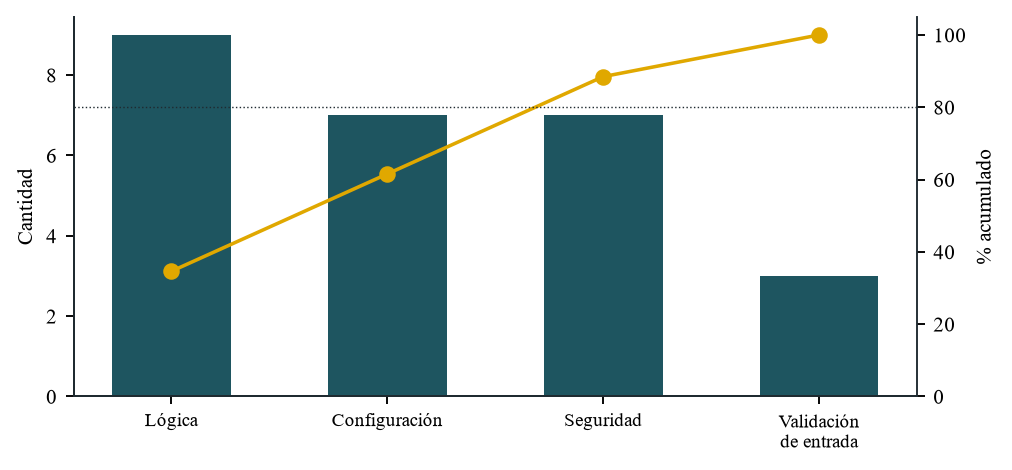
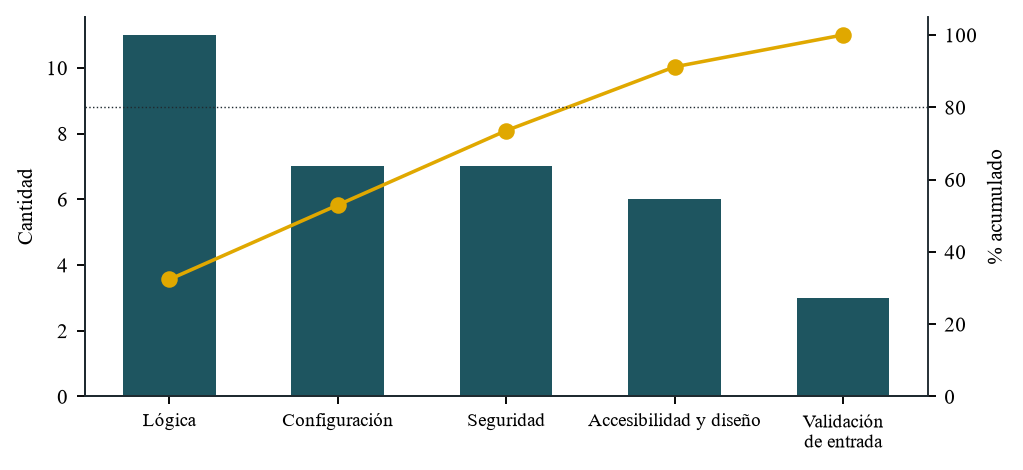
docs: register DEF-027 to DEF-034 from the mobile design audit and regenerate the quality docs

diff --git a/qa/datos_calidad.py b/qa/datos_calidad.py
@@ -163,6 +163,30 @@ DEFECTOS = [
     ('DEF-026', '02-nov-2026', 'Auditoría integral (OPS-02)', 'El CI no corría la suite de Odoo ni el linter de la tableta',
      '.github/workflows/ci.yml', 'Se configuró sólo una revisión de sintaxis; los conteos de pruebas de la documentación no se verificaban.',
      'Configuración', 'Cerrado', 'Job odoo-tests y lint de la tableta en el CI'),
+    ('DEF-027', '02-nov-2026', 'Auditoría de diseño móvil (P1)', 'El SOS y las alertas abiertas quedaban fuera de la vista en horizontal y en Android',
+     'apps/conductor-tablet/app/shift.tsx', 'Los avisos vivían dentro del bloque que hace scroll y se medían solo con datos de ejemplo cortos.',
+     'Accesibilidad y diseño', 'Cerrado', 'notices.test.ts y capturas del escenario de peor caso (qa/capturas_movil.py)'),
+    ('DEF-028', '02-nov-2026', 'Auditoría de diseño móvil (P2)', 'El detalle de las alertas salía en el idioma del usuario de Odoo y no en el de la app',
+     'controllers/driver_api.py, models/res_users.py', 'La API traducía con el idioma del usuario y la app no enviaba el suyo.',
+     'Lógica', 'Cerrado', 'TestOdooLanguagePick y test_state_accepts_the_app_language_and_ignores_nonsense'),
+    ('DEF-029', '02-nov-2026', 'Auditoría de diseño móvil (P2)', 'Ninguna acción que confirma algo daba respuesta háptica, aunque DISENO.md la prometía',
+     'apps/conductor-tablet/src/ui/cabin.tsx, app/shift.tsx, app/incident.tsx', 'La promesa del documento no tenía una tarea ni una prueba que la cubriera.',
+     'Accesibilidad y diseño', 'Cerrado', 'haptics.test.ts (la sensación se juzga en un dispositivo real)'),
+    ('DEF-030', '02-nov-2026', 'Auditoría de diseño móvil (P2)', 'El relleno del SOS animaba en el hilo de JS y volvía de golpe al soltar',
+     'apps/conductor-tablet/src/ui/cabin.tsx', 'Se animó el ancho con el driver de JS, sin una lógica de mantener probada aparte.',
+     'Lógica', 'Cerrado', 'hold.test.ts y prueba en el emulador (mantener 1,1 s no dispara)'),
+    ('DEF-031', '02-nov-2026', 'Auditoría de diseño móvil (P2)', 'El código de la línea llevaba texto blanco fijo sobre el color que elige la oficina (ilegible en amarillo o blanco)',
+     'apps/conductor-tablet/app/shift.tsx, app/select.tsx', 'Se dio por hecho que el color de la línea sería siempre oscuro.',
+     'Accesibilidad y diseño', 'Cerrado', 'contrast.test.ts y qa/contraste.py (chips de línea)'),
+    ('DEF-032', '02-nov-2026', 'Auditoría de diseño móvil (P2)', 'Había valores de espaciado fuera de la cuadrícula de 4 px y sin tokens',
+     'apps/conductor-tablet/app/*.tsx, src/ui/*.tsx', 'Cada pantalla escribía sus números a ojo y nada lo comprobaba.',
+     'Accesibilidad y diseño', 'Cerrado', 'spacing.test.ts'),
+    ('DEF-033', '02-nov-2026', 'Auditoría de diseño móvil (P2)', 'Con la fuente del sistema al 130 % o más el turno se desbordaba y el SOS y Terminar turno quedaban inalcanzables',
+     'apps/conductor-tablet/app/shift.tsx, select.tsx, incident.tsx, gps.tsx', 'Las pantallas se diseñaron para encajar en una vista y solo se probaron con el tamaño de letra por defecto.',
+     'Accesibilidad y diseño', 'Cerrado', 'layout.test.ts y qa/capturas_android.py con font_scale 1,3 y 2,0'),
+    ('DEF-034', '02-nov-2026', 'Auditoría de diseño móvil (P2)', 'La selección de bus y línea quedaba en blanco sin buses, sin líneas o con todos los buses en uso',
+     'apps/conductor-tablet/app/select.tsx', 'No se pensó el estado vacío ni el caso de flota ocupada.',
+     'Accesibilidad y diseño', 'Cerrado', 'Capturas de los escenarios empty y busy de qa/capturas_movil.py'),
 ]
 
 # Ishikawa 1: why bad input reaches the system (DEF-008 to DEF-010).

diff --git a/qa/generar_docs.py b/qa/generar_docs.py
@@ -236,7 +236,7 @@ causa_txt = '\n\n'.join('### %s: %s\n\n- **Causa raíz:** %s\n- **Categoría:** 
 write('05-registro-de-defectos.md', '''
 # Registro de defectos y análisis de causa raíz
 
-Formato del taller de la Unidad 2: bitácora de incidencias y evaluación de la causa raíz. Los defectos DEF-001 a DEF-007 salen de `docs/BITACORA.md` (se hallaron y cerraron al construir); DEF-008 a DEF-010 los halló la evaluación de calidad del 28-oct-2026 y DEF-011 a DEF-026 la auditoría integral del 2-nov-2026 (`docs/PLAN-AUDITORIA.md`, un defecto por hallazgo crítico o alto). Generado por `qa/generar_docs.py` desde `qa/datos_calidad.py`.
+Formato del taller de la Unidad 2: bitácora de incidencias y evaluación de la causa raíz. Los defectos DEF-001 a DEF-007 salen de `docs/BITACORA.md` (se hallaron y cerraron al construir); DEF-008 a DEF-010 los halló la evaluación de calidad del 28-oct-2026 y DEF-011 a DEF-026 la auditoría integral del 2-nov-2026 (`docs/PLAN-AUDITORIA.md`, un defecto por hallazgo crítico o alto) y DEF-027 a DEF-034 la auditoría de diseño móvil del mismo día (`docs/PLAN-UI-MOVIL.md`). Generado por `qa/generar_docs.py` desde `qa/datos_calidad.py`.
 
 Cada defecto se registra con tres campos separados: fallo observado, defecto localizado y causa de origen.
 

diff --git a/docs/calidad/05-registro-de-defectos.md b/docs/calidad/05-registro-de-defectos.md
@@ -1,6 +1,6 @@
 # Registro de defectos y análisis de causa raíz
 
-Formato del taller de la Unidad 2: bitácora de incidencias y evaluación de la causa raíz. Los defectos DEF-001 a DEF-007 salen de `docs/BITACORA.md` (se hallaron y cerraron al construir); DEF-008 a DEF-010 los halló la evaluación de calidad del 28-oct-2026 y DEF-011 a DEF-026 la auditoría integral del 2-nov-2026 (`docs/PLAN-AUDITORIA.md`, un defecto por hallazgo crítico o alto). Generado por `qa/generar_docs.py` desde `qa/datos_calidad.py`.
+Formato del taller de la Unidad 2: bitácora de incidencias y evaluación de la causa raíz. Los defectos DEF-001 a DEF-007 salen de `docs/BITACORA.md` (se hallaron y cerraron al construir); DEF-008 a DEF-010 los halló la evaluación de calidad del 28-oct-2026 y DEF-011 a DEF-026 la auditoría integral del 2-nov-2026 (`docs/PLAN-AUDITORIA.md`, un defecto por hallazgo crítico o alto) y DEF-027 a DEF-034 la auditoría de diseño móvil del mismo día (`docs/PLAN-UI-MOVIL.md`). Generado por `qa/generar_docs.py` desde `qa/datos_calidad.py`.
 
 Cada defecto se registra con tres campos separados: fallo observado, defecto localizado y causa de origen.
 
@@ -34,8 +34,16 @@ Cada defecto se registra con tres campos separados: fallo observado, defecto loc
 | DEF-024 | 02-nov-2026 | Auditoría integral (TAB-01) | Cuando la oficina cerraba el turno, la tableta seguía enviando el GPS | apps/conductor-tablet/app/shift.tsx, src/state/session.ts | Cerrado |
 | DEF-025 | 02-nov-2026 | Auditoría integral (TAB-02) | Sin red o con el turno ya cerrado, el chofer no podía terminar el turno | apps/conductor-tablet/src/state/session.ts | Cerrado |
 | DEF-026 | 02-nov-2026 | Auditoría integral (OPS-02) | El CI no corría la suite de Odoo ni el linter de la tableta | .github/workflows/ci.yml | Cerrado |
+| DEF-027 | 02-nov-2026 | Auditoría de diseño móvil (P1) | El SOS y las alertas abiertas quedaban fuera de la vista en horizontal y en Android | apps/conductor-tablet/app/shift.tsx | Cerrado |
+| DEF-028 | 02-nov-2026 | Auditoría de diseño móvil (P2) | El detalle de las alertas salía en el idioma del usuario de Odoo y no en el de la app | controllers/driver_api.py, models/res_users.py | Cerrado |
+| DEF-029 | 02-nov-2026 | Auditoría de diseño móvil (P2) | Ninguna acción que confirma algo daba respuesta háptica, aunque DISENO.md la prometía | apps/conductor-tablet/src/ui/cabin.tsx, app/shift.tsx, app/incident.tsx | Cerrado |
+| DEF-030 | 02-nov-2026 | Auditoría de diseño móvil (P2) | El relleno del SOS animaba en el hilo de JS y volvía de golpe al soltar | apps/conductor-tablet/src/ui/cabin.tsx | Cerrado |
+| DEF-031 | 02-nov-2026 | Auditoría de diseño móvil (P2) | El código de la línea llevaba texto blanco fijo sobre el color que elige la oficina (ilegible en amarillo o blanco) | apps/conductor-tablet/app/shift.tsx, app/select.tsx | Cerrado |
+| DEF-032 | 02-nov-2026 | Auditoría de diseño móvil (P2) | Había valores de espaciado fuera de la cuadrícula de 4 px y sin tokens | apps/conductor-tablet/app/*.tsx, src/ui/*.tsx | Cerrado |
+| DEF-033 | 02-nov-2026 | Auditoría de diseño móvil (P2) | Con la fuente del sistema al 130 % o más el turno se desbordaba y el SOS y Terminar turno quedaban inalcanzables | apps/conductor-tablet/app/shift.tsx, select.tsx, incident.tsx, gps.tsx | Cerrado |
+| DEF-034 | 02-nov-2026 | Auditoría de diseño móvil (P2) | La selección de bus y línea quedaba en blanco sin buses, sin líneas o con todos los buses en uso | apps/conductor-tablet/app/select.tsx | Cerrado |
 
-Resumen: 26 registrados, 25 cerrados (96 %), 1 abiertos. Densidad: 9,1 defectos por KLOC (2,871 KLOC de Python sin pruebas).
+Resumen: 34 registrados, 33 cerrados (97 %), 1 abiertos. Densidad: 11,8 defectos por KLOC (2,871 KLOC de Python sin pruebas).
 
 ## 2. Análisis de causa raíz e impacto
 
@@ -194,6 +202,54 @@ Resumen: 26 registrados, 25 cerrados (96 %), 1 abiertos. Densidad: 9,1 defectos 
 - **Causa raíz:** Se configuró sólo una revisión de sintaxis; los conteos de pruebas de la documentación no se verificaban.
 - **Categoría:** Configuración
 - **Prueba que lo protege:** Job odoo-tests y lint de la tableta en el CI
+
+### DEF-027: El SOS y las alertas abiertas quedaban fuera de la vista en horizontal y en Android
+
+- **Causa raíz:** Los avisos vivían dentro del bloque que hace scroll y se medían solo con datos de ejemplo cortos.
+- **Categoría:** Accesibilidad y diseño
+- **Prueba que lo protege:** notices.test.ts y capturas del escenario de peor caso (qa/capturas_movil.py)
+
+### DEF-028: El detalle de las alertas salía en el idioma del usuario de Odoo y no en el de la app
+
+- **Causa raíz:** La API traducía con el idioma del usuario y la app no enviaba el suyo.
+- **Categoría:** Lógica
+- **Prueba que lo protege:** TestOdooLanguagePick y test_state_accepts_the_app_language_and_ignores_nonsense
+
+### DEF-029: Ninguna acción que confirma algo daba respuesta háptica, aunque DISENO.md la prometía
+
+- **Causa raíz:** La promesa del documento no tenía una tarea ni una prueba que la cubriera.
+- **Categoría:** Accesibilidad y diseño
+- **Prueba que lo protege:** haptics.test.ts (la sensación se juzga en un dispositivo real)
+
+### DEF-030: El relleno del SOS animaba en el hilo de JS y volvía de golpe al soltar
+
+- **Causa raíz:** Se animó el ancho con el driver de JS, sin una lógica de mantener probada aparte.
+- **Categoría:** Lógica
+- **Prueba que lo protege:** hold.test.ts y prueba en el emulador (mantener 1,1 s no dispara)
+
+### DEF-031: El código de la línea llevaba texto blanco fijo sobre el color que elige la oficina (ilegible en amarillo o blanco)
+
+- **Causa raíz:** Se dio por hecho que el color de la línea sería siempre oscuro.
+- **Categoría:** Accesibilidad y diseño
+- **Prueba que lo protege:** contrast.test.ts y qa/contraste.py (chips de línea)
+
+### DEF-032: Había valores de espaciado fuera de la cuadrícula de 4 px y sin tokens
+
+- **Causa raíz:** Cada pantalla escribía sus números a ojo y nada lo comprobaba.
+- **Categoría:** Accesibilidad y diseño
+- **Prueba que lo protege:** spacing.test.ts
+
+### DEF-033: Con la fuente del sistema al 130 % o más el turno se desbordaba y el SOS y Terminar turno quedaban inalcanzables
+
+- **Causa raíz:** Las pantallas se diseñaron para encajar en una vista y solo se probaron con el tamaño de letra por defecto.
+- **Categoría:** Accesibilidad y diseño
+- **Prueba que lo protege:** layout.test.ts y qa/capturas_android.py con font_scale 1,3 y 2,0
+
+### DEF-034: La selección de bus y línea quedaba en blanco sin buses, sin líneas o con todos los buses en uso
+
+- **Causa raíz:** No se pensó el estado vacío ni el caso de flota ocupada.
+- **Categoría:** Accesibilidad y diseño
+- **Prueba que lo protege:** Capturas de los escenarios empty y busy de qa/capturas_movil.py
 
 ## 3. Qué falta para cerrar los abiertos
 

diff --git a/docs/calidad/07-pareto.md b/docs/calidad/07-pareto.md
@@ -22,10 +22,11 @@ Fallos de la suite en vivo (3) y de la auditoría aleatoria (57), por causa. Las
 
 | Categoría | Defectos | % | % acumulado |
 |---|---|---|---|
-| Lógica | 9 | 34,6 % | 34,6 % |
-| Configuración | 7 | 26,9 % | 61,5 % |
-| Seguridad | 7 | 26,9 % | 88,5 % |
-| Validación de entrada | 3 | 11,5 % | 100,0 % |
+| Lógica | 11 | 32,4 % | 32,4 % |
+| Configuración | 7 | 20,6 % | 52,9 % |
+| Seguridad | 7 | 20,6 % | 73,5 % |
+| Accesibilidad y diseño | 6 | 17,6 % | 91,2 % |
+| Validación de entrada | 3 | 8,8 % | 100,0 % |
 
 **Lectura:** con la auditoría del 2-nov la lógica y la seguridad pasan a encabezar: los defectos ya no están en la entrada de datos sino en reglas que se cumplían sólo en un lado (la vista y no el método, la tableta y no el servidor). Queda abierto uno de seguridad (DEF-013).
 

diff --git a/docs/calidad/04-resultados-y-metricas.md b/docs/calidad/04-resultados-y-metricas.md
@@ -15,7 +15,7 @@ Generado por `qa/generar_docs.py` con los datos de la ejecución del 2-nov-2026.
 | Capacidad de ingesta (100 buses, un reporte cada 10 s) | ≥ 10 req/s | 39,9 req/s | Sí |
 | Cobertura de código (sentencias y ramas) | ≥ 80 % | 92,8 % | Sí |
 | Cobertura de rutas HTTP | 100 % | 100,0 % | Sí |
-| Defectos cerrados | ≥ 90 % | 96,2 % | Sí |
+| Defectos cerrados | ≥ 90 % | 97,1 % | Sí |
 | Posiciones con datos imposibles | 0 | 0 | Sí |
 | Integridad concurrente (P6: 20 envíos iguales) | 1 guardada | 1 guardada | Sí |
 
